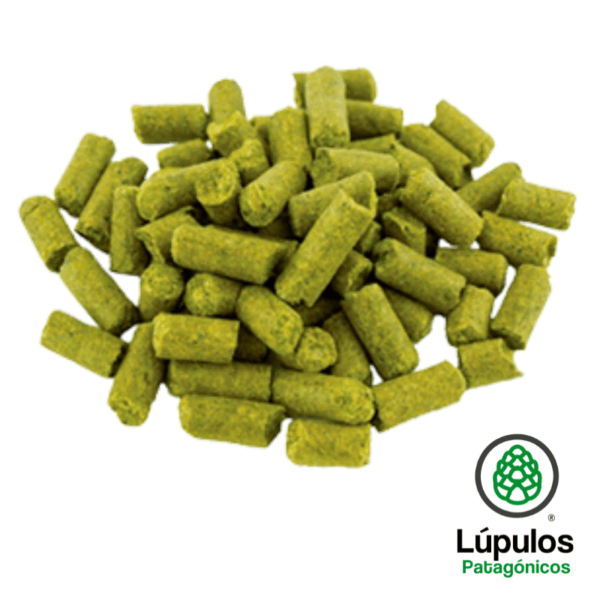
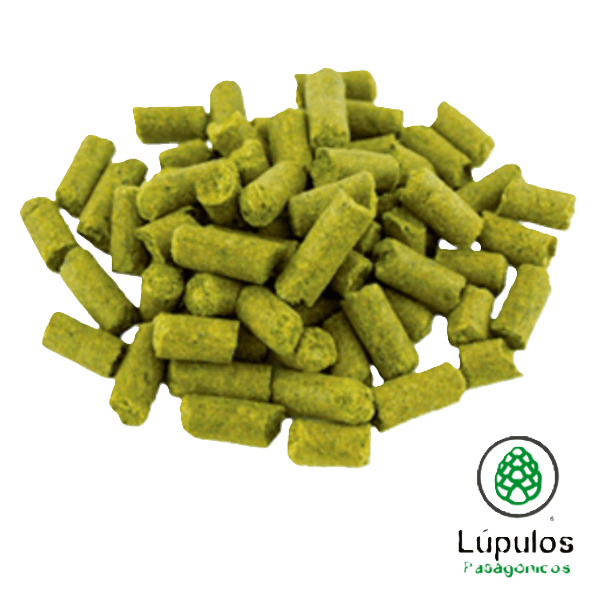
quite fondos de imagenes y agregue boton To Top en la seccion de tienda

diff --git a/html/tienda.html b/html/tienda.html
@@ -163,7 +163,7 @@
                             </div>
                             <div class="col-lg-4 col-md-6 mb-4">
                                 <div class="card">
-                                    <img src="../imagenes/productos/avena arrollada.jpg" class="card-img-top img-fluid" alt="Producto 3">
+                                    <img src="../imagenes/productos/avena-arrollada.png" class="card-img-top img-fluid" alt="Producto 3">
                                     <div class="card-body">
                                         <h5 class="card-title">avena arollada <br>x 25kg</h5>
                                         <p class="card-text fw-bold">$30.000</p>
@@ -187,6 +187,12 @@
             </div>
         </div>
     </main>
+
+</div>
+</section>
+<div class="wp-flotante">
+    <a href="#"><i class="fa-solid fa-arrow-up"></i></a>
+</div>
 
     <footer class="d-flex flex-wrap justify-content-around align-items-center py-3 my-4 border-top">
         <div class="col-md-4 d-flex align-items-center">

diff --git a/css/styles.css b/css/styles.css
@@ -65,6 +65,18 @@ form-label {
   background-image: url(../imagenes/tienda\ bg.jpg);
 }
 
+.bg-image-sn {
+  background-size: cover;
+  background-attachment: fixed !important;
+  padding-top: 100px;
+  padding-bottom: 100px;
+  background: rgba(218, 180, 157, 0.5215686275);
+}
+
+.main-sn {
+  background-image: url(../imagenes/background\ sn.jpg);
+}
+
 .featured {
   background-color: #FBAB7E;
   background-image: linear-gradient(62deg, #FBAB7E 7%, #F7CE68 100%);
@@ -130,12 +142,6 @@ form-label {
   color: #74ae62;
   text-shadow: 1px 1px 1px #5beb22;
   font-size: 25px;
-}
-
-.bg-image-sn {
-  background-image: url(../imagenes/background\ sn.jpg) !important;
-  background-size: cover;
-  background-attachment: fixed !important;
 }
 
 @media screen and (max-width: 380px) {

diff --git a/css/_sobre_nosotros.scss b/css/_sobre_nosotros.scss
@@ -17,6 +17,18 @@ $medidas-logo: 40px;
 $separador: 10px;
 //FIN VARIABLES//
 
+.bg-image-sn {
+
+    background-size: cover;
+    background-attachment: fixed !important;
+    padding-top: 100px;
+    padding-bottom: 100px;
+    background: $bg-color;
+}
+
+.main-sn {
+    background-image: url(../imagenes/background\ sn.jpg);
+}
 
 .featured {
     background-color: #FBAB7E;
@@ -86,11 +98,8 @@ $separador: 10px;
     font-size: 25px;
 }
 
-.bg-image-sn {
-    background-image: url(../imagenes/background\ sn.jpg) !important;
-    background-size: cover;
-    background-attachment: fixed !important;
-}
+
+// INICIO MEDIA QUERIES
 
 @media screen and (max-width: 380px) {
     .bialystok {

diff --git a/html/tienda 2.html b/html/tienda 2.html
@@ -103,7 +103,7 @@
                             </div>
                             <div class="col-lg-4 col-md-5 mb-4">
                                 <div class="card">
-                                    <img src="../imagenes/productos/malta negra.jpeg" class="card-img-top img-fluid" alt="Producto 3">
+                                    <img src="../imagenes/productos/malta negra.png" class="card-img-top img-fluid" alt="Producto 3">
                                     <div class="card-body">
                                         <h5 class="card-title">malta negra x 25kg</h5>
                                         <p class="card-text fw-bold">$23.000</p>

diff --git a/index.html b/index.html
@@ -175,7 +175,7 @@
                                 </div>
                                 <div class="col-md-4">
                                     <a href="https://www.instagram.com/juguetescerveza/" target="_blank">
-                                        <img src="./imagenes/clientes/Logo-negro-juguetes-web-favicon-separado.png" class="img-fluid im</a>g-clientes" alt="">
+                                        <img src="./imagenes/clientes/Logo-negro-juguetes-web-favicon-separado.png" class="img-fluid img-clientes" alt="">
                                 </div>
 
                     </div>

diff --git a/html/sobre nosotros.html b/html/sobre nosotros.html
@@ -44,8 +44,8 @@
         </nav>
     </header>
 
-    <main>
-        <div class="bg bg-image-sn">
+    <main class="main-sn">
+        <div class="bg-image-sn">
             <section class="row container-fluid justify-content-center">
                 <h1 class="text-center titulo-griback">GRUPO RIBACK</h1>
                 <div class="container justify-content-center row">
